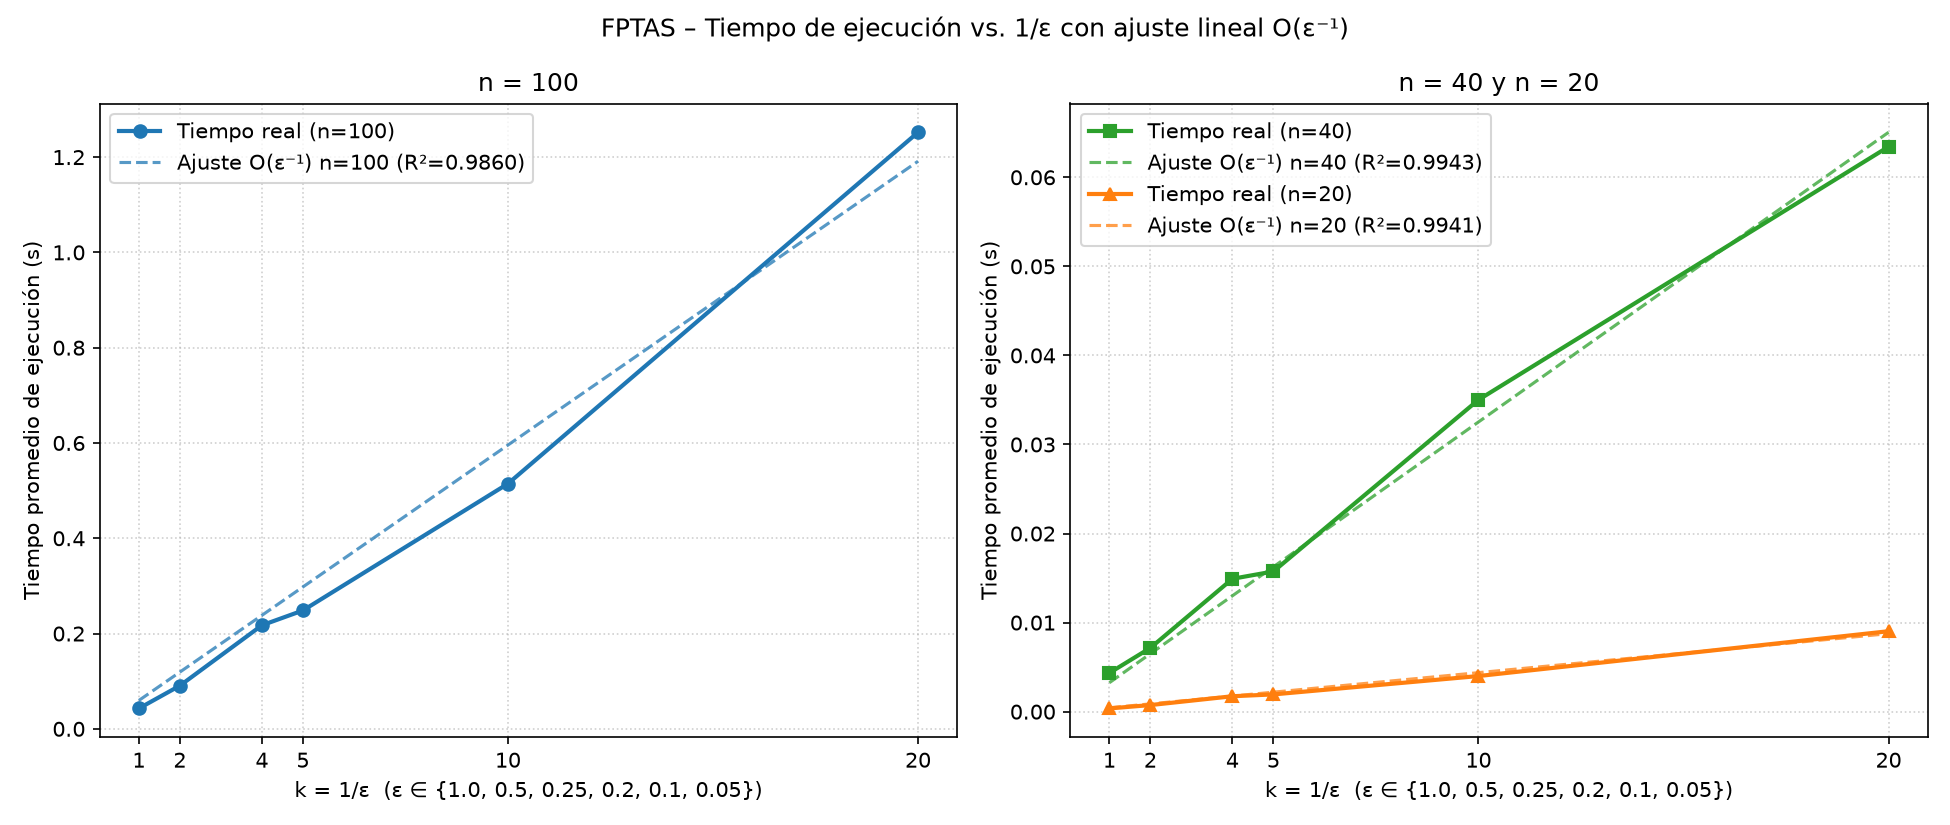
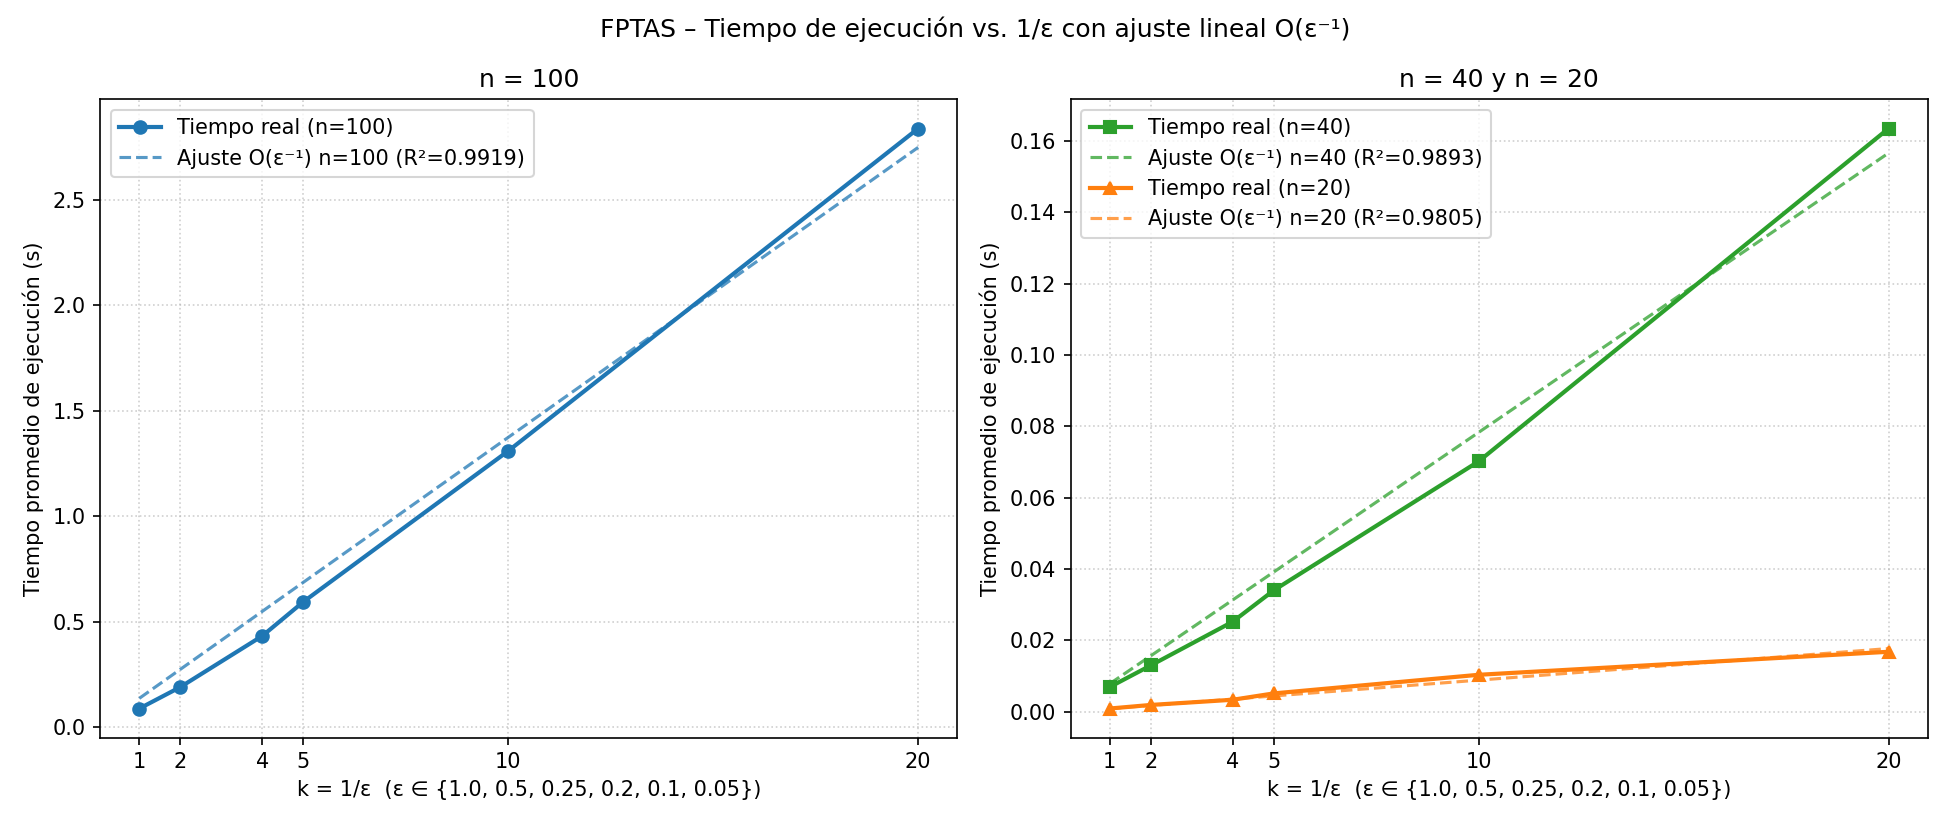
Se elimina mochila_tradicional.py duplicada en problema_01 y problema_02

diff --git a/tp02/Problema_02/problema_02.py b/tp02/Problema_02/problema_02.py
@@ -1,10 +1,16 @@
 import csv
 import os
+import sys
 import time
+
+dir_actual = os.path.dirname(os.path.abspath(__file__))
+dir_tp02 = os.path.dirname(dir_actual)
+if dir_tp02 not in sys.path:
+    sys.path.append(dir_tp02)
 
 try:
     from tp02.Problema_02 import datos, fptas
-    from tp02.Problema_02.mochila_tradicional import mochila_tradicional
+    from tp02.mochila_tradicional import mochila_tradicional
 except ImportError:
     import datos
     import fptas
